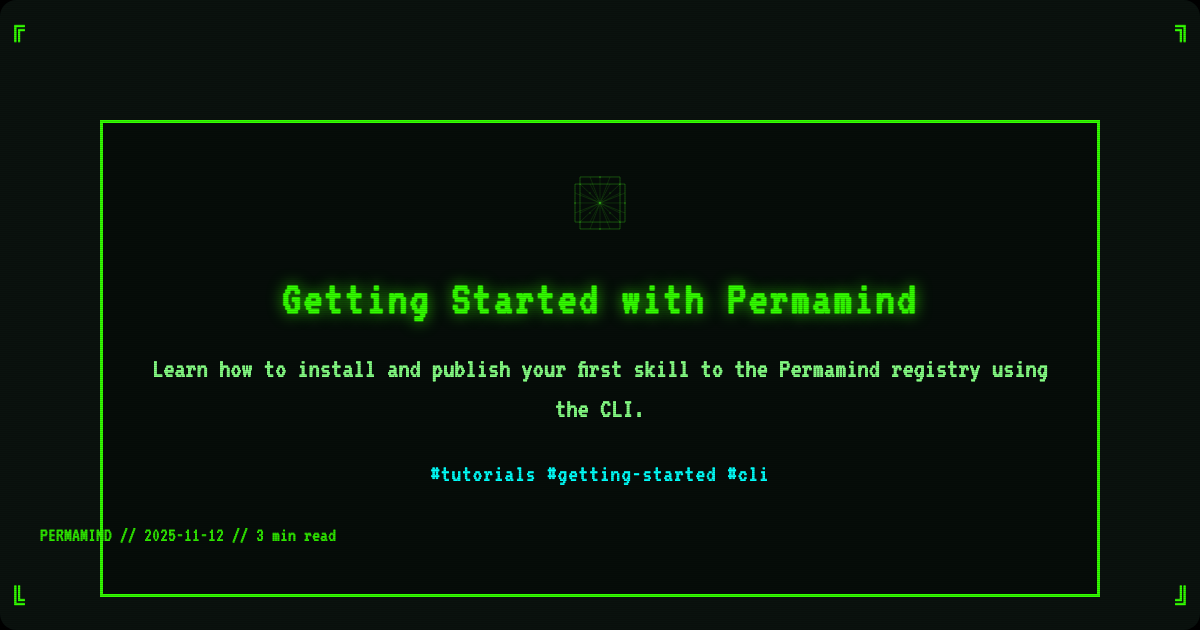
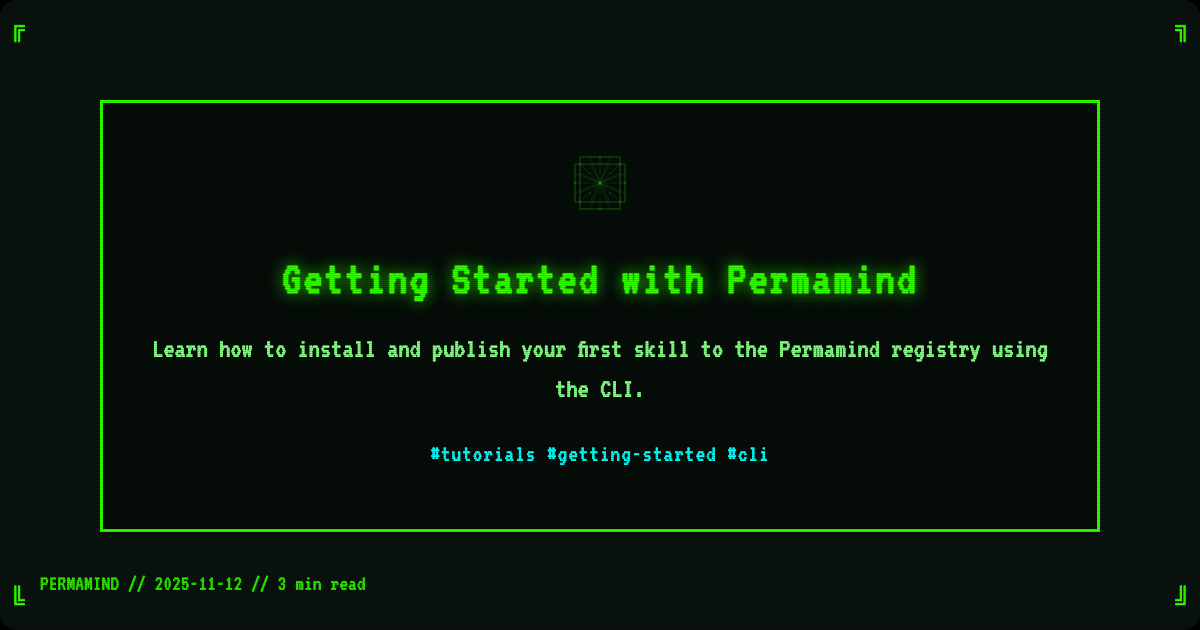
Revert: Restore original blog preview script settings
Reverted all hero image generation changes back to original state
from commit 0c07a9d (before hero banner spacing modifications).

Original settings restored:
- margin: 60px auto (symmetric)
- bottom: 30px
- font-size: 22px
- No tag-line bottom margin

Using 3 tags for permaweb-mcp-guide to match layout of other posts.

All blog preview images regenerated with original script.

🤖 Generated with [Claude Code](https://claude.com/claude-code)

diff --git a/frontend/create-blog-preview.js b/frontend/create-blog-preview.js
@@ -94,7 +94,7 @@ async function createBlogPreview(blogPost) {
         .ascii-border {
             border: 3px solid #33ff00;
             padding: 40px;
-            margin: 80px auto 180px auto;
+            margin: 60px auto;
             max-width: 1000px;
             text-align: center;
             background: rgba(0, 0, 0, 0.3);
@@ -144,15 +144,14 @@ async function createBlogPreview(blogPost) {
             font-size: 24px;
             color: #00ffff;
             margin-top: 25px;
-            margin-bottom: 60px;
             letter-spacing: 1px;
         }
 
         .bottom-brand {
             position: absolute;
-            bottom: 80px;
+            bottom: 30px;
             left: 40px;
-            font-size: 20px;
+            font-size: 22px;
             color: #33ff00;
             opacity: 0.9;
         }
@@ -262,14 +261,6 @@ const blogPosts = [
         tags: ['architecture', 'arweave'],
         excerpt: 'Learn how Permamind uses Arweave and AO networks to create a permanent, decentralized registry for Claude Code skills.',
         readTime: 6,
-    },
-    {
-        slug: 'permaweb-mcp-guide',
-        title: 'Permaweb-MCP: Your Gateway to AO and Arweave Development',
-        date: '2025-11-16',
-        tags: ['mcp', 'arweave', 'tutorials'],
-        excerpt: 'Transform how you interact with AO and Arweave through natural language. Deploy apps, manage processes, and register domains with Claude AI.',
-        readTime: 8,
     },
 ];
 
